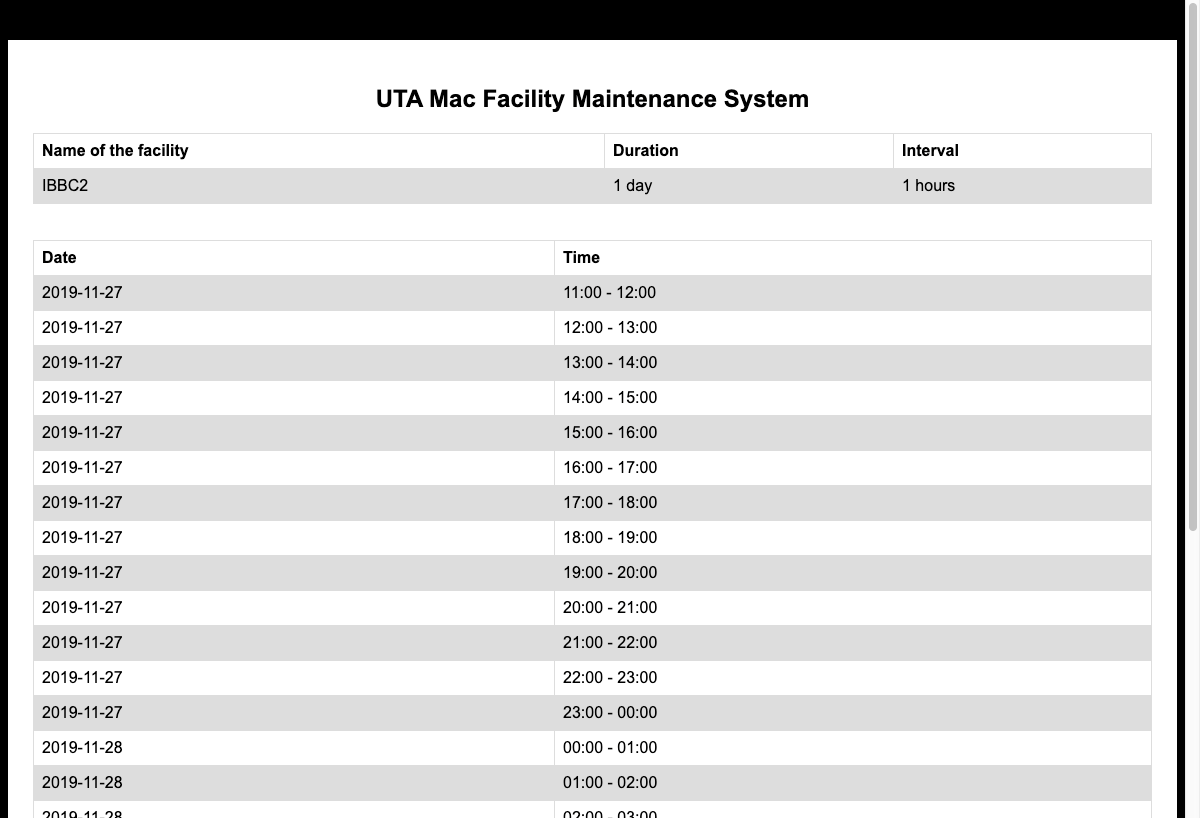
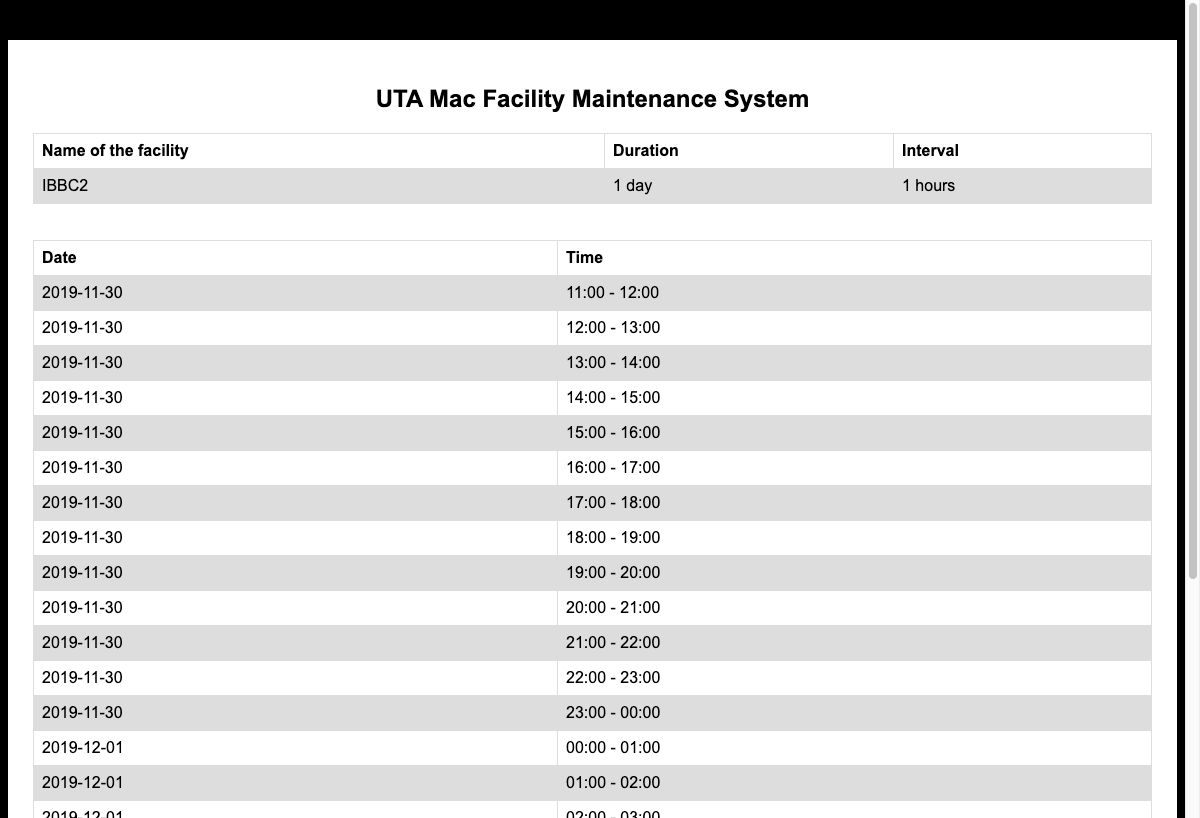
add result table verification for FM search facility

diff --git a/test/facility_maintenance/selenium/FacilityManagerTest.java b/test/facility_maintenance/selenium/FacilityManagerTest.java
@@ -1,6 +1,7 @@
 package facility_maintenance.selenium;
 
 import java.io.FileInputStream;
+import java.util.List;
 import java.util.Properties;
 import java.util.concurrent.TimeUnit;
 
@@ -172,7 +173,6 @@ public class FacilityManagerTest extends facility_maintenance.FMFunctions {
 
     FM_Logout(driver);
   }  
-  */
 
   @Test
   @FileParameters("./test/facility_maintenance/selenium/FM_assignMARToOther.csv")
@@ -232,26 +232,34 @@ public class FacilityManagerTest extends facility_maintenance.FMFunctions {
 
 	  FM_Logout(driver);
   }
+  */
 
-  /*
   @Test
   @FileParameters("./test/facility_maintenance/selenium/FM_searchFacility.csv")
-  public void searchFacility(int testcaseNum, String facilityName) throws Exception {
+  public void searchFacility(int testcaseNum, String facilityName, String time, int numberOfSlot) throws Exception {
 	  driver.get(appURL);
 	  FM_Login(driver, "fmfive", "test1");    
 
 	  driver.findElement(By.linkText(prop.getProperty("Txt_FM_SearchFacility"))).click();
 	  new Select(driver.findElement(By.name(prop.getProperty("Txt_SF_FacilityName")))).selectByVisibleText(facilityName);
-	  new Select(driver.findElement(By.name("starttime"))).selectByVisibleText("11:00");
+//	  new Select(driver.findElement(By.name("starttime"))).selectByVisibleText("11:00");
+	  new Select(driver.findElement(By.name("starttime"))).selectByVisibleText(time);
 	  Thread.sleep(500);
 	  driver.findElement(By.cssSelector(prop.getProperty("Btn_SF_Submit"))).click();
 	  Thread.sleep(500);
+
+	  WebElement TogetRows = driver.findElement(By.xpath(prop.getProperty("Table_SF_ResultTable")));
+	  List<WebElement> TotalRowsList = TogetRows.findElements(By.tagName("tr"));
+
+	  assertEquals(numberOfSlot, TotalRowsList.size() - 1/* the title */);
+
 	  String methodName = new Throwable().getStackTrace()[0].getMethodName();
 	  takeScreenshot(driver, "FacilityManagerTest" + methodName + testcaseNum);
 	  driver.navigate().back();
 	  FM_Logout(driver);
   }
 
+  /*
   @Test
   @FileParameters("./test/facility_maintenance/selenium/FM_addFacility.csv")
   public void addFacility(int testcaseNum, String facilityName, String number, String interval, String duration) throws Exception {
